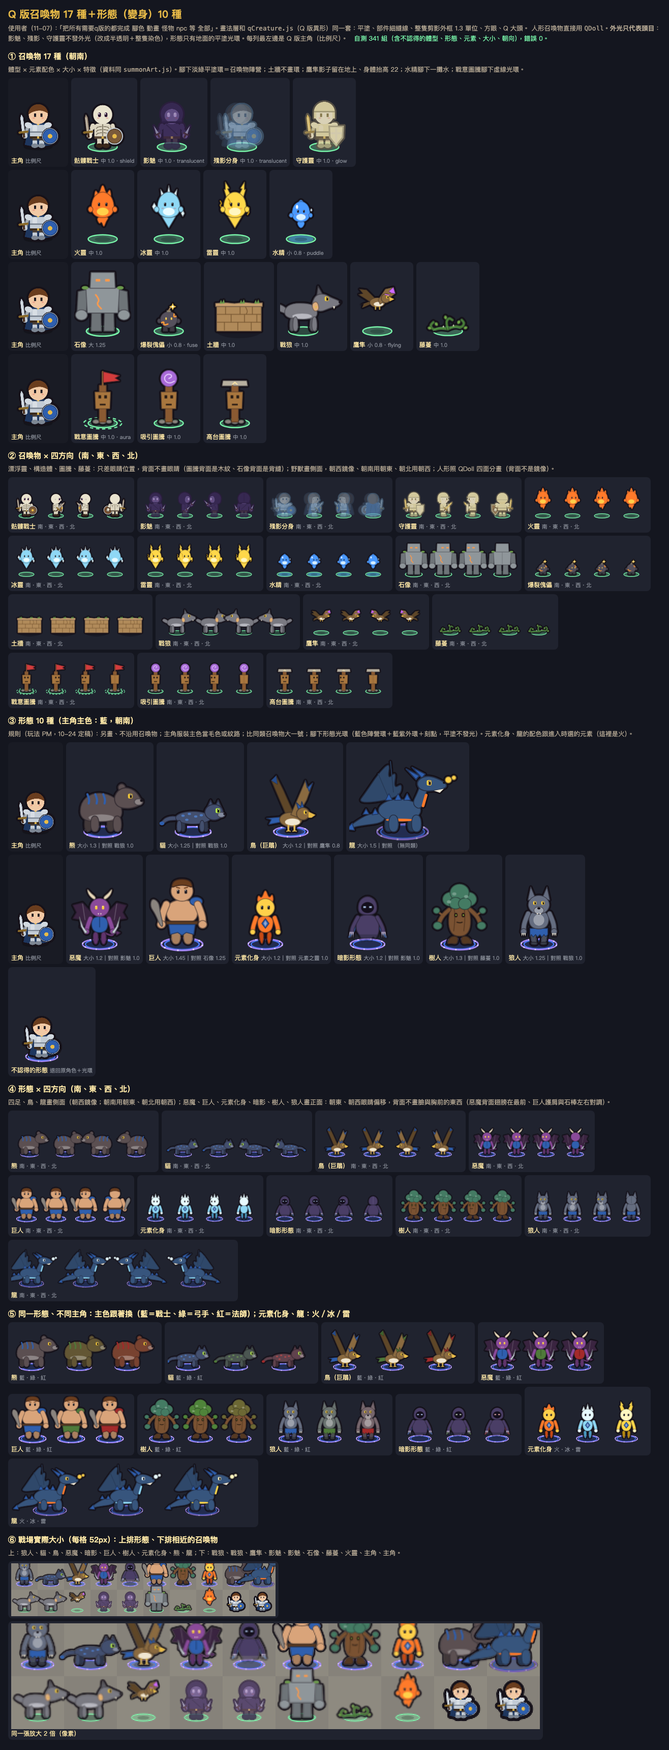
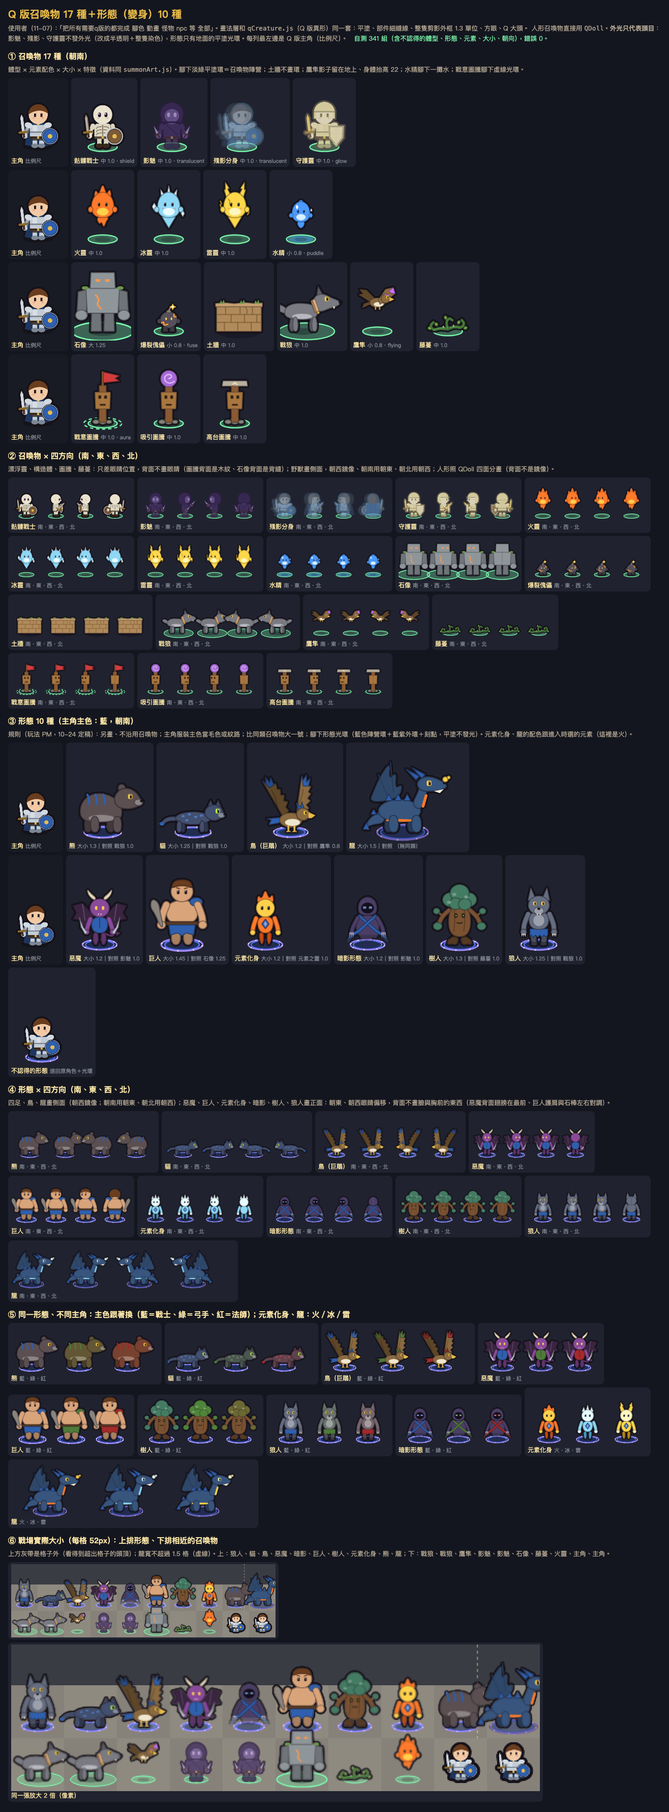
docs(art): Q summons/forms/extra gear review round 3 fixes

diff --git a/docs/art/sample/qGearExtra.js b/docs/art/sample/qGearExtra.js
@@ -17,10 +17,14 @@ window.QGearExtra = (() => {
   const fill = (g, c, path) => { g.beginPath(); g.fillStyle = c; path(); g.fill(); };
   const rr = (g, x, y, w, h, r) => g.roundRect(x, y, w, h, r);
   const line = (g, c, w, pts) => { g.strokeStyle = c; g.lineWidth = w; g.lineCap = "round"; g.lineJoin = "round"; g.beginPath(); pts.forEach(([x, y], i) => (i ? g.lineTo(x, y) : g.moveTo(x, y))); g.stroke(); };
-  const noHead = (g, V) => { g.beginPath(); g.rect(-60, -90, 120, 120); g.arc(V.S ? 0.3 : 0, -29, 8.7, 0, TAU); g.clip("evenodd"); }; // 頸飾、披肩：不蓋臉
+  const noHead = (g, V) => { g.beginPath(); g.rect(-60, -90, 120, 120); g.arc(0, -29, 8.45, 0, TAU); g.clip("evenodd"); }; // 頸飾、披肩：不蓋臉（圓＝QDoll 的頭，r 8.5 往內一點，不留縫）
 
   // ============================== 合成：底圖（QDoll）＋部件＋整隻外框 ==============================
-  const KEY_BODY = "#00fe02", KEY_SKIN = "#fe02fc";
+  // 色鍵圖（審查第 3 輪改）：衣服＝綠、皮膚＝洋紅、褲子／腰帶／鞋＝青、披風＝橘；其他顏色（武器、盾、頭髮、背掛…）＝擋在前面的東西。
+  //   軀幹＝從軀幹種子沿「亮綠」填色（袖子的描邊、拳頭圈是暗綠，填色會停在那裡）；側面近側手臂前方那一條軀幹另外補種子。
+  //   手＝每隻手各自一個「前臂膠囊」（拳頭往肩膀 7 單位、半徑 3）裡看得到的手臂像素，膨脹 0.6 單位給袖口外翻；扣掉軀幹、擋在前面的東西；
+  //   側面遠側手再扣掉近側手的膠囊（近側手臂在前）。背面披風在最上層，披風也算擋在前面。
+  const KEY = { body: "#00fe02", skin: "#fe02fc", leg: "#02fefe", cloak: "#fe8002" };
   const mk = (w, h) => { const c = document.createElement("canvas"); c.width = w; c.height = h; return c; };
   function dilate(src, r) { // 同 qDoll stamp：12 方向線段膨脹（近似圓盤），尖端不會變梳齒
     const w = src.width, h = src.height, N = 12, a = (r * Math.PI) / (2 * N), P = [mk(w, h), mk(w, h)]; let cur = src, n = 0;
@@ -28,24 +32,42 @@ window.QGearExtra = (() => {
     const o = mk(w, h); o.getContext("2d").drawImage(cur, 0, 0); return o;
   }
   const tint = (src, col) => { const c = mk(src.width, src.height), g = c.getContext("2d"); g.drawImage(src, 0, 0); g.globalCompositeOperation = "source-in"; g.fillStyle = col; g.fillRect(0, 0, c.width, c.height); return c; };
-  /** 色鍵圖 → 看得到的軀幹（填色）＋手臂與拳頭（其餘鍵色＋皮膚，膨脹一點蓋住袖子的描邊）。 */
-  function masks(unit, view, west, s, ox, oy, W, H) {
-    const look = { ...unit.look, skin: KEY_SKIN }, gear = { ...unit.gear, hands: undefined, body: { ...(unit.gear.body ?? { kind: "shirt" }), kind: ["mail", "plate", "leather"].includes(unit.gear.body?.kind) ? "shirt" : unit.gear.body?.kind ?? "shirt", color: KEY_BODY, element: undefined, crest: undefined } };
+  const toCanvas = (arr, W, H) => { const c = mk(W, H), g = c.getContext("2d"), im = g.createImageData(W, H); for (let i = 0; i < W * H; i++) if (arr[i]) im.data[i * 4 + 3] = 255; g.putImageData(im, 0, 0); return c; };
+  const alphaOf = (c) => { const d = c.getContext("2d").getImageData(0, 0, c.width, c.height).data, a = new Uint8Array(c.width * c.height); for (let i = 0; i < a.length; i++) a[i] = d[i * 4 + 3] > 127 ? 1 : 0; return a; };
+  function flood(ok, seeds, W, H, out) { const st = []; for (const i of seeds) if (i >= 0 && ok(i) && !out[i]) { out[i] = 1; st.push(i); } while (st.length) { const i = st.pop(), x = i % W; for (const j of [x > 0 ? i - 1 : -1, x < W - 1 ? i + 1 : -1, i - W, i + W]) { if (j < 0 || j >= W * H || out[j] || !ok(j)) continue; out[j] = 1; st.push(j); } } return out; }
+  function masks(unit, view, west, s, ox, oy, W, H, hands) {
+    const kc = (it, col) => (it ? { ...it, color: col, element: undefined } : it);
+    const look = { ...unit.look, skin: KEY.skin, pants: KEY.leg, belt: KEY.leg };
+    const gear = { ...unit.gear, hands: undefined, feet: kc(unit.gear.feet, KEY.leg), cloak: kc(unit.gear.cloak, KEY.cloak), body: { ...(unit.gear.body ?? { kind: "shirt" }), kind: ["mail", "plate", "leather"].includes(unit.gear.body?.kind) ? "shirt" : unit.gear.body?.kind ?? "shirt", color: KEY.body, element: undefined, crest: undefined } };
     const c = mk(W, H), g = c.getContext("2d"); Q.stamp(g, { look, gear }, view, ox, oy, s, west, { outline: false, dpr: 1.5 });
-    const d = g.getImageData(0, 0, W, H).data, isK = (i, k) => d[i * 4 + 3] > 250 && Math.abs(d[i * 4] - k[0]) < 10 && Math.abs(d[i * 4 + 1] - k[1]) < 10 && Math.abs(d[i * 4 + 2] - k[2]) < 10;
-    const KB = hex(KEY_BODY), KS = hex(KEY_SKIN), torso = new Uint8Array(W * H);
-    const px = (u, v) => [Math.round(ox + s * (west ? -u : u)), Math.round(oy + s * v)];
-    // 種子：軀幹靠背那一側（側面近側手臂垂在胸前，避開）
-    let seed = -1; for (const [u, v] of view === "side" ? [[-3.6, -15], [-3, -18], [-4, -12]] : [[0, -15], [0, -18], [-2, -12], [2, -12]]) { const [x, y] = px(u, v), i = y * W + x; if (isK(i, KB)) { seed = i; break; } }
-    if (seed >= 0) { const st = [seed]; torso[seed] = 1; while (st.length) { const i = st.pop(), x = i % W; for (const j of [i - 1, i + 1, i - W, i + W]) { if (j < 0 || j >= W * H || torso[j] || (Math.abs((j % W) - x) > 1) || !isK(j, KB)) continue; torso[j] = 1; st.push(j); } } }
-    const tc = mk(W, H), ac = mk(W, H), ti = tc.getContext("2d").createImageData(W, H), ai = ac.getContext("2d").createImageData(W, H), yHand = oy + s * -16;
-    for (let i = 0; i < W * H; i++) {
-      if (torso[i]) ti.data[i * 4 + 3] = 255;
-      else if (isK(i, KB) || (isK(i, KS) && Math.floor(i / W) > yHand)) ai.data[i * 4 + 3] = 255;
-    }
-    tc.getContext("2d").putImageData(ti, 0, 0); ac.getContext("2d").putImageData(ai, 0, 0);
-    const arms = dilate(ac, 0.75 * s), tg = tc.getContext("2d"); tg.globalCompositeOperation = "destination-out"; tg.drawImage(arms, 0, 0);
-    return { torso: tc, arms };
+    const d = g.getImageData(0, 0, W, H).data, N = W * H, cls = new Uint8Array(N), bright = new Uint8Array(N);
+    for (let i = 0; i < N; i++) { const r = d[i * 4], gg = d[i * 4 + 1], b = d[i * 4 + 2], a = d[i * 4 + 3]; if (a < 128) continue;
+      if (gg > 50 && gg > 1.6 * Math.max(r, b)) { cls[i] = 1; bright[i] = gg > 200 && r < 70 && b < 70 ? 1 : 0; }        // 衣服（含暗綠描邊）
+      else if (r > 120 && b > 120 && gg < 0.6 * Math.min(r, b)) cls[i] = 2;                                                  // 皮膚
+      else if (gg > 120 && b > 120 && r < 0.5 * Math.min(gg, b)) cls[i] = 3;                                                 // 褲子、腰帶、鞋
+      else if (r > 200 && gg > 90 && gg < 160 && b < 60) cls[i] = 4;                                                         // 披風
+      else cls[i] = 5; }                                                                                                       // 擋在前面的東西
+    const U = (i) => [((i % W) - ox) / s * (west ? -1 : 1), (Math.floor(i / W) - oy) / s], P = (u, v) => Math.round(oy + s * v) * W + Math.round(ox + s * (west ? -u : u));
+    const S = view === "side", yHand = oy + s * -16;
+    // 近側手臂（側面）：從前臂中段沿亮綠填色，袖子描邊圈住
+    const nearArm = new Uint8Array(N); if (S) { const nh = hands.find((h) => h.near); if (nh) { const m = [(nh.at[0] + nh.sh[0]) / 2, (nh.at[1] + nh.sh[1]) / 2]; flood((i) => bright[i], [P(m[0], m[1]), P(m[0], m[1] + 1.5)], W, H, nearArm); } } // 種子在前臂中段：只走亮綠（拳頭貼在軀幹上，從拳頭走會漏進軀幹）
+    const torso = new Uint8Array(N), seeds = (S ? [[-3.6, -15], [-3, -18], [-4, -12]] : [[0, -15], [0, -18], [-2, -12], [2, -12]]).map(([u, v]) => P(u, v));
+    if (S) for (const [u, v] of [[5, -17], [5, -12.5], [4.9, -14.6], [5.1, -19]]) { const i = P(u, v); if (!nearArm[i]) seeds.push(i); } // 側面：近側手臂前方那一條軀幹
+    flood((i) => bright[i] && !nearArm[i], seeds, W, H, torso);
+    const arm = new Uint8Array(N), occ = new Uint8Array(N);
+    for (let i = 0; i < N; i++) { if (!torso[i] && (cls[i] === 1 || (cls[i] === 2 && Math.floor(i / W) > yHand))) arm[i] = 1; if (cls[i] === 5 || (cls[i] === 4 && view === "back")) occ[i] = 1; }
+    const armsC = dilate(toCanvas(arm, W, H), 0.75 * s), occC = toCanvas(occ, W, H), torsoC = toCanvas(torso, W, H);
+    const tg = torsoC.getContext("2d"); tg.globalCompositeOperation = "destination-out"; tg.drawImage(armsC, 0, 0); tg.drawImage(occC, 0, 0);
+    // 每隻手的範圍
+    const cap = (h, i, R = 3) => { const [u, v] = U(i), [ax, ay] = h.at, L = Math.hypot(h.sh[0] - ax, h.sh[1] - ay) || 1, dx = (h.sh[0] - ax) / L, dy = (h.sh[1] - ay) / L, t = Math.max(0, Math.min(7, (u - ax) * dx + (v - ay) * dy)); return Math.hypot(u - ax - dx * t, v - ay - dy * t) <= R; };
+    const near = hands.find((h) => h.near);
+    const handMask = (h) => {
+      const vis = new Uint8Array(N), within = new Uint8Array(N);
+      for (let i = 0; i < N; i++) { if (!cap(h, i, 3.2)) continue; if (S && !h.near && near && cap(near, i, 3.2)) continue; within[i] = 1; if (arm[i]) vis[i] = 1; }
+      const m = dilate(toCanvas(vis, W, H), 0.6 * s), mg = m.getContext("2d"); mg.globalCompositeOperation = "destination-in"; mg.drawImage(toCanvas(within, W, H), 0, 0);
+      mg.globalCompositeOperation = "destination-out"; mg.drawImage(torsoC, 0, 0); mg.drawImage(occC, 0, 0); return m;
+    };
+    return { torso: torsoC, arms: armsC, occ: occC, handMask };
   }
   /**
    * 畫一隻穿上額外部件的 Q 版小人。unit＝QDoll 的 { look, gear }；ids＝這裡的部件 id（可多個）。其他參數同 QDoll.stamp。
@@ -62,23 +84,28 @@ window.QGearExtra = (() => {
     const toU = ([x, y]) => [(x / (s * 1.5) - 64) * (west ? -1 : 1), y / (s * 1.5) - 98]; // POSE.hands 是 stamp 離屏畫布（s×dpr）的座標
     const HU = {};
     for (const k of ["main", "off"]) if (hands[k]) HU[k] = toU(hands[k]);
-    // 沒記到的手（空手正背面）：照 E 手臂（肩 ±8.5、往外 0.325、長 10.5）算
+    // 沒記到的手（空手）：照 E 手臂（肩 ±8.5、往外 0.325、長 10.5）算；側面遠側手垂在近側手後面一點
     const fk = (sx, a) => [sx + Math.sin(a) * 10.5 * Math.sign(sx), -20 + Math.cos(a) * 10.5];
     if (!S) { HU.main ??= fk(F ? -8.5 : 8.5, 0.325); HU.off ??= fk(F ? 8.5 : -8.5, 0.325); }
-    else { HU.main ??= [2.9, -9.6]; HU.off ??= [1.8, -9.6]; }
-    const shoulder = (h) => (S ? [2, -20] : [h[0] < 0 ? -8.5 : 8.5, -20]);
-    const handList = S ? [west ? "off" : "main"] : ["main", "off"];
-    const V = { view, S, B, F, west, unit, hands: handList.map((k) => ({ who: k, at: HU[k], sh: shoulder(HU[k]) })) };
-    const needMask = defs.some((d) => d.torso || d.free);
-    const M = needMask ? masks(unit, view, west, s, ox, oy, W, H) : null;
+    else { const nk = west ? "off" : "main", fk2 = west ? "main" : "off"; HU[nk] ??= [2.9, -9.6]; HU[fk2] ??= [1.4, -9.8]; }
+    const nearKey = west ? "off" : "main";
+    const shoulder = (h, near) => (S ? [near ? 2 : 3, -20] : [h[0] < 0 ? -8.5 : 8.5, -20]);
+    const handList = S ? [west ? "main" : "off", nearKey] : ["main", "off"]; // 側面：遠側先畫
+    const V = { view, S, B, F, west, unit, hands: handList.map((k) => ({ who: k, near: S && k === nearKey, at: HU[k], sh: shoulder(HU[k], S && k === nearKey) })) };
+    const needMask = defs.some((d) => d.torso || d.free || d.hand);
+    const M = needMask ? masks(unit, view, west, s, ox, oy, W, H, V.hands) : null;
     const layer = (fn, clip) => {
       const L = mk(W, H), g = L.getContext("2d"); g.setTransform(west ? -s : s, 0, 0, s, ox, oy); fn(g, V); g.setTransform(1, 0, 0, 1, 0, 0);
       if (clip === "torso") { g.globalCompositeOperation = "destination-in"; g.drawImage(M.torso, 0, 0); }
-      else if (clip === "free") { g.globalCompositeOperation = "destination-out"; g.drawImage(M.arms, 0, 0); }
+      else if (clip === "free") { g.globalCompositeOperation = "destination-out"; g.drawImage(M.arms, 0, 0); g.drawImage(M.occ, 0, 0); }
+      else if (clip && clip.mask) { g.globalCompositeOperation = "destination-in"; g.drawImage(clip.mask, 0, 0); }
       ag.drawImage(L, 0, 0);
     };
     for (const d of defs) if (d.erase) { ag.save(); ag.setTransform(west ? -s : s, 0, 0, s, ox, oy); ag.globalCompositeOperation = "destination-out"; ag.beginPath(); d.erase(ag, V); ag.fill(); ag.restore(); } // 擦掉底圖伸出去、新部件用不到的部分（例：毛帽側面的帽舌）
-    for (const d of defs) { if (d.torso) layer(d.torso, "torso"); if (d.free) layer(d.free, "free"); if (d.top) layer(d.top, null); if (d.hand) layer((g) => V.hands.forEach((h) => { g.save(); const a = Math.atan2(h.at[1] - h.sh[1], h.at[0] - h.sh[0]) - Math.PI / 2; g.translate(h.at[0], h.at[1]); g.rotate(a); d.hand(g, V, h); g.restore(); }), null); }
+    for (const d of defs) {
+      if (d.torso) layer(d.torso, "torso"); if (d.free) layer(d.free, "free"); if (d.top) layer(d.top, null);
+      if (d.hand) for (const h of V.hands) layer((g) => { g.save(); const a = Math.atan2(h.at[1] - h.sh[1], h.at[0] - h.sh[0]) - Math.PI / 2; g.translate(h.at[0], h.at[1]); g.rotate(a); d.hand(g, V, h); g.restore(); }, { mask: M.handMask(h) }); // 手：只畫在看得到的那隻手臂上（武器、盾、背面披風在上面）
+    }
     const rim = tint(dilate(A, 1.3 * s), OUT);
     const dx = cx - 64 * size, dy = cy - 98 * size;
     ctx.save(); ctx.imageSmoothingEnabled = true; ctx.drawImage(rim, dx, dy, W / SS, H / SS); ctx.drawImage(A, dx, dy, W / SS, H / SS); ctx.restore();
@@ -92,14 +119,16 @@ window.QGearExtra = (() => {
   const DEFS = {
     // ---------- 身體 ----------
     scale_mail: { zh: "鱗甲", slot: "身體", from: "mail・scale", base: setG("body", { slot: "body", kind: "mail", material: "iron" }),
-      note: "鎖甲的點換成一排排魚鱗（U 形線），正面、背面、側面同一個紋；鱗片停在腰帶上",
+      note: "鎖甲的點換成一排排魚鱗（U 形線），正面、背面、側面同一個紋；鱗片停在腰帶上方（最下排不碰腰帶）；側面近側手臂前方那一條軀幹也換成鱗片",
       torso(g, V) { const [c, d] = colors(V.unit.gear.body), [x0, x1] = torsoBox(V); fill(g, c, () => g.rect(x0, -22, x1 - x0, 13));
-        let row = 0; for (let y = -19.6; y < -9.5; y += 2.3, row++) for (let x = x0 + (row % 2 ? 1.2 : 0); x <= x1 + 1; x += 2.4) { g.strokeStyle = d; g.lineWidth = 0.55; g.beginPath(); g.arc(x, y, 1.15, 0.15 * Math.PI, 0.85 * Math.PI); g.stroke(); } } },
+        let row = 0; for (let y = -19.6; y < -11.2; y += 2.3, row++) for (let x = x0 + (row % 2 ? 1.2 : 0); x <= x1 + 1; x += 2.4) { g.strokeStyle = d; g.lineWidth = 0.55; g.beginPath(); g.arc(x, y, 1.15, 0.15 * Math.PI, 0.85 * Math.PI); g.stroke(); } } },
     hunter: { zh: "獵裝", slot: "身體", from: "leather・hunter", base: setG("body", { slot: "body", kind: "leather", color: "#6a5a3a" }),
-      note: "皮背心加長成外套：下襬蓋過大腿（正面中間開衩、側面後開衩、背面中縫），正面兩個口袋蓋；側面口袋在前緣、背面不畫",
+      note: "皮背心加長成外套：下襬蓋過大腿（正面中間開衩、側面後開衩、背面中縫），正面兩個口袋蓋（在斜背帶下面）；側面口袋在前緣、背面不畫",
       torso(g, V) { const [, d] = colors(V.unit.gear.body);
         if (V.F) for (const x of [-4.6, 1.4]) { fill(g, d, () => rr(g, x, -14.2, 3.2, 1.6, 0.5)); fill(g, GOLD, () => g.arc(x + 1.6, -13.4, 0.45, 0, TAU)); }
-        else if (V.S) fill(g, d, () => rr(g, 2.6, -14.2, 2.8, 1.6, 0.5)); },
+        else if (V.S) fill(g, d, () => rr(g, 2.6, -14.2, 2.8, 1.6, 0.5));
+        // 斜背帶畫回口袋蓋上面（同 qDoll body() 的 leather：正面右肩到左腰；側面照朝東／朝西各自的方向）
+        if (V.F) line(g, d, 1, [[-5, -20], [5, -11]]); else if (V.S) line(g, d, 0.85, V.west ? [[1.5, -20.8], [-3.5, -11]] : [[-1.5, -20.8], [4.6, -11]]); },
       free(g, V) { const [c, d] = colors(V.unit.gear.body), w = V.S ? 5.9 : 8.2;
         fill(g, c, () => { g.moveTo(-w + 0.6, -7.6); g.lineTo(w - 0.6, -7.6); g.lineTo(w, -3.6); g.lineTo(-w, -3.6); g.closePath(); });
         if (V.F) fill(g, dark(c, 0.35), () => { g.moveTo(-0.9, -3.6); g.lineTo(0, -7.4); g.lineTo(0.9, -3.6); g.closePath(); });
@@ -115,8 +144,8 @@ window.QGearExtra = (() => {
     coat_cape: { zh: "披風外套", slot: "身體", from: "coat・cape", base: setG("body", { slot: "body", kind: "coat", color: "#4a5058" }),
       note: "旅行外套肩上多一片短披肩（蓋過肩膀與上臂），正面圓下緣、背面較長；側面從前胸繞到後背",
       top(g, V) { const [c, d] = colors(V.unit.gear.body), k = dark(c, 0.18); g.save(); noHead(g, V);
-        if (V.S) fill(g, k, () => { g.moveTo(-6.2, -21.6); g.quadraticCurveTo(0, -24, 5.6, -21.6); g.quadraticCurveTo(7, -18, 5.4, -15.6); g.quadraticCurveTo(0, -14.4, -6.6, -14.6); g.quadraticCurveTo(-7.6, -18, -6.2, -21.6); g.closePath(); });
-        else fill(g, k, () => { g.moveTo(-9.6, -21); g.quadraticCurveTo(0, -23.4, 9.6, -21); g.quadraticCurveTo(11.6, -17, 10.6, V.B ? -13.6 : -15.2); g.quadraticCurveTo(0, V.B ? -11.6 : -13.2, -10.6, V.B ? -13.6 : -15.2); g.quadraticCurveTo(-11.6, -17, -9.6, -21); g.closePath(); });
+        if (V.S) fill(g, k, () => { g.moveTo(-6.2, -21.4); g.quadraticCurveTo(0, -22, 5.6, -21.4); g.quadraticCurveTo(7, -18, 5.4, -15.6); g.quadraticCurveTo(0, -14.4, -6.6, -14.6); g.quadraticCurveTo(-7.6, -18, -6.2, -21.4); g.closePath(); });
+        else fill(g, k, () => { g.moveTo(-9.6, -21); g.quadraticCurveTo(0, -22.4, 9.6, -21); g.quadraticCurveTo(11.6, -17, 10.6, V.B ? -13.6 : -15.2); g.quadraticCurveTo(0, V.B ? -11.6 : -13.2, -10.6, V.B ? -13.6 : -15.2); g.quadraticCurveTo(-11.6, -17, -9.6, -21); g.closePath(); });
         line(g, d, 0.6, V.S ? [[-6, -15.6], [5, -16.4]] : [[-9.8, -16], [0, V.B ? -12.8 : -14.2], [9.8, -16]]);
         if (V.F) fill(g, GOLD, () => g.arc(0, -19.4, 0.9, 0, TAU)); else if (V.S) fill(g, GOLD, () => g.arc(5, -19.6, 0.8, 0, TAU));
         g.restore(); } },
@@ -131,23 +160,31 @@ window.QGearExtra = (() => {
     // ---------- 頭 ----------
     hood_cowl: { zh: "斗篷帽", slot: "頭", from: "hood・cowl", base: setG("head", { slot: "head", kind: "hood", color: "#5a4a6a" }),
       note: "布兜帽下面接一片披領：正面尖角垂到胸口、背面尖角到肩胛，側面前後各一角；和披風外套的圓披肩分得開",
-      top(g, V) { const it = V.unit.gear.head, [c, d] = colors(it); g.save(); noHead(g, V);
-        if (V.S) fill(g, c, () => { g.moveTo(-8.4, -22.4); g.lineTo(5.2, -22.4); g.lineTo(6.4, -16); g.lineTo(1.6, -18.6); g.lineTo(-3, -15.4); g.lineTo(-8.8, -17.6); g.closePath(); });
-        else fill(g, c, () => { g.moveTo(-9.6, -22.6); g.lineTo(9.6, -22.6); g.lineTo(10.4, -17.6); g.lineTo(0, V.B ? -12.6 : -13.8); g.lineTo(-10.4, -17.6); g.closePath(); });
+      top(g, V) { const it = V.unit.gear.head, [c, d] = colors(it); g.save(); if (!V.B) noHead(g, V); // 背面：披領蓋到兜帽下緣，不露頭髮
+        if (V.S) fill(g, c, () => { g.moveTo(-8.4, -23); g.lineTo(7.6, -23.8); g.lineTo(6.6, -16); g.lineTo(1.6, -18.6); g.lineTo(-3, -15.4); g.lineTo(-8.8, -17.6); g.closePath(); }); // 側面：前緣往上包到下巴下，不露衣領
+        else if (V.B) fill(g, c, () => { g.moveTo(-9.6, -23.2); g.lineTo(9.6, -23.2); g.lineTo(10.4, -17.6); g.lineTo(0, -12.6); g.lineTo(-10.4, -17.6); g.closePath(); });
+        else fill(g, c, () => { g.moveTo(-9.6, -23); g.quadraticCurveTo(0, -17.8, 9.6, -23); g.lineTo(10.4, -17.6); g.lineTo(0, -13.8); g.lineTo(-10.4, -17.6); g.closePath(); }); // 正面：和兜帽的接縫是順著下巴的弧線
         line(g, d, 0.6, V.S ? [[-8.6, -17.6], [-3, -15.4], [1.6, -18.6], [6.4, -16]] : [[-10.4, -17.6], [0, V.B ? -12.6 : -13.8], [10.4, -17.6]]);
         g.restore(); } },
     cap_fur: { zh: "毛帽", slot: "頭", from: "cap・fur", base: setG("head", { slot: "head", kind: "cap", color: "#6a4a2e" }),
-      note: "皮帽的帽緣換成一圈米白毛邊（下緣圓凸），兩側垂護耳；正面、背面兩片，側面一片蓋在耳朵上",
+      note: "皮帽的帽緣換成一圈米白毛邊（圓角、下緣圓凸、不凸出頭），兩側垂護耳；側面護耳是沿後腦頭形垂下的一片毛",
       erase(g, V) { if (V.S) g.rect(8.7, -34.5, 6, 4.4); }, // 側面：皮帽的帽舌伸出臉前的那段擦掉
       top(g, V) { const F = "#ece4cc", Fd = "#c8bc9c";
-        if (V.S) { fill(g, F, () => { g.moveTo(-9.6, -34); g.lineTo(8.8, -34); g.lineTo(9, -31.4); for (let i = 0; i < 5; i++) { const x = 9 - i * 3.72; g.quadraticCurveTo(x - 1.86, -29.8, x - 3.72, -31.4); } g.closePath(); });
-          fill(g, F, () => rr(g, -3.4, -31.6, 4.4, 7, 2.2)); line(g, Fd, 0.5, [[-1.2, -30.4], [-1.2, -25.6]]); return; }
-        fill(g, F, () => { g.moveTo(-10, -34.2); g.lineTo(10, -34.2); g.lineTo(10.2, -31.6); for (let i = 0; i < 5; i++) { const x = 10.2 - i * 4.08; g.quadraticCurveTo(x - 2.04, -29.8, x - 4.08, -31.6); } g.closePath(); });
-        for (const sx of [-1, 1]) fill(g, F, () => rr(g, sx * 9.2 - 2.2, -32, 4.4, 8.2, 2.2)); } },
+        // 毛邊：圓角、剪在頭＋帽頂的輪廓裡（不凸出頭）；下緣一排圓凸
+        g.save(); g.beginPath(); g.arc(0, -29, 8.5, 0, TAU); g.arc(V.S ? -0.4 : 0, -31, 9.1, Math.PI, 0); g.clip();
+        const x0 = V.S ? -9.6 : -9.2, x1 = V.S ? 8.8 : 9.2, n = 5, st = (x1 - x0) / n;
+        fill(g, F, () => { g.moveTo(x0, -32); g.quadraticCurveTo(x0, -34.4, x0 + 2, -34.4); g.lineTo(x1 - 2, -34.4); g.quadraticCurveTo(x1, -34.4, x1, -32); for (let i = 0; i < n; i++) { const x = x1 - i * st; g.quadraticCurveTo(x - st / 2, -29.6, x - st, -31.4); } g.closePath(); });
+        if (V.S) { // 側面護耳：沿後腦的頭形垂下的一片毛（蓋住耳朵），剪在頭的輪廓裡
+          fill(g, F, () => { g.moveTo(-5.2, -31.4); g.quadraticCurveTo(-6.4, -26.4, -4.2, -23.4); g.quadraticCurveTo(-1.4, -22.4, 0.4, -24.8); g.quadraticCurveTo(1.4, -28, 1, -31.4); g.closePath(); }); // 耳朵（x −1.2）上一片圓的毛，下緣往後收、順著頭形
+          line(g, Fd, 0.5, [[-2.6, -29.6], [-2.2, -24.6]]); g.restore(); return; }
+        g.restore();
+        for (const sx of [-1, 1]) { fill(g, F, () => rr(g, sx * 7.6 - 1.9, -31.6, 3.8, 7.6, 1.9)); line(g, Fd, 0.45, [[sx * 7.6, -29.8], [sx * 7.6, -25.6]]); } } },
     // ---------- 手 ----------
     gloves_fingerless: { zh: "露指手套", slot: "手", from: "cloth_gloves・fingerless", base: setG("hands", { slot: "hands", kind: "gloves", color: "#5a5a6a" }),
-      note: "手套（手背是手套色）＋露出一截膚色指頭（拳頭往指尖那一側）＋手腕一圈",
-      hand(g, V) { const sk = V.unit.look.skin, [c, d] = colors(V.unit.gear.hands); g.save(); g.beginPath(); g.arc(0, 0, 2.4, 0, TAU); g.clip(); fill(g, sk, () => g.rect(-3, 0.7, 6, 3)); line(g, dark(sk, 0.25), 0.4, [[-1.8, 0.75], [1.8, 0.75]]); g.restore(); fill(g, d, () => rr(g, -2.3, -2.9, 4.6, 1.3, 0.5)); } },
+      note: "手套（手背是手套色）＋露出一截膚色指頭（拳頭往指尖那一側）＋手腕一圈；正面、背面保留拳頭圈；側面兩隻手都畫",
+      hand(g, V) { const sk = V.unit.look.skin, [c, d] = colors(V.unit.gear.hands); g.save(); g.beginPath(); g.arc(0, 0, 2.4, 0, TAU); g.clip(); fill(g, sk, () => g.rect(-3, 0.7, 6, 3)); line(g, dark(sk, 0.25), 0.4, [[-1.8, 0.75], [1.8, 0.75]]);
+        if (!V.S) { g.beginPath(); g.rect(-3, 0.7, 6, 3); g.clip(); g.strokeStyle = mix(sk, "#000000", 0.45); g.lineWidth = 0.9; g.beginPath(); g.arc(0, 0, 1.95, 0, TAU); g.stroke(); } // 正面、背面：露出的指頭保留拳頭圈的下半（第 17 版拳頭整圈邊）
+        g.restore(); fill(g, d, () => rr(g, -2.3, -2.9, 4.6, 1.3, 0.5)); } },
     gloves_long: { zh: "長皮手套", slot: "手", from: "leather_gloves・long", base: setG("hands", { slot: "hands", kind: "gloves", material: "leather" }),
       note: "皮手套往上包到前臂一半，袖口外翻一圈淺色",
       hand(g, V) { const [c, d] = colors(V.unit.gear.hands); fill(g, c, () => rr(g, -2.2, -6.2, 4.4, 5.4, 1)); fill(g, light(c, 0.22), () => rr(g, -2.6, -6.8, 5.2, 1.6, 0.7)); line(g, d, 0.4, [[-2, -1.2], [2, -1.2]]); } },
@@ -160,36 +197,39 @@ window.QGearExtra = (() => {
       hand(g, V) { for (const y of [-5.2, -3.2]) { fill(g, COPPER, () => rr(g, -2.5, y, 5, 1.1, 0.5)); fill(g, light(COPPER, 0.5), () => g.rect(-1.6, y + 0.2, 1.2, 0.35)); } } },
     // ---------- 腳 ----------
     shoes_wrapped: { zh: "綁腿鞋", slot: "腳", from: "shoes・wrapped", base: setG("feet", { slot: "feet", kind: "shoes", material: "cloth" }),
-      note: "布鞋＋小腿纏三圈淺色布條（斜的）；側面遠側腿被近側腿擋住的部分不畫",
-      free(g, V) { const legs = V.S ? [[-1.6, true], [1.6, false]] : [[-3, false], [3, false]];
-        for (const [x, far] of legs) { g.save(); g.beginPath(); g.roundRect(x - 2.1, -5.6, 4.2, 4.6, 1.2); if (far) { g.rect(-60, -60, 120, 120); g.rect(-0.4, -6, 4, 6); g.clip("evenodd"); g.beginPath(); g.roundRect(x - 2.1, -5.6, 4.2, 4.6, 1.2); } g.clip();
-          for (const y of [-5, -3.3, -1.6]) fill(g, "#e2d8bc", () => { g.moveTo(x - 2.2, y + 0.5); g.lineTo(x + 2.2, y - 0.5); g.lineTo(x + 2.2, y + 0.4); g.lineTo(x - 2.2, y + 1.4); g.closePath(); });
+      note: "布鞋＋小腿纏三圈淺色布條（斜的）；側面兩腿的布條連成一條",
+      free(g, V) { const xs = V.S ? [-1.6, 1.6] : [-3, 3];
+        // 側面兩條腿前後重疊：布條剪在兩腿合起來的形狀裡，一條連到底；正面、背面各腿各自三圈
+        const groups = V.S ? [xs] : xs.map((x) => [x]);
+        for (const grp of groups) { g.save(); g.beginPath(); for (const x of grp) g.roundRect(x - 2.1, -5.6, 4.2, 4.6, 1.2); g.clip();
+          const a = Math.min(...grp) - 2.4, b = Math.max(...grp) + 2.4;
+          for (const y of [-5, -3.3, -1.6]) fill(g, "#e2d8bc", () => { g.moveTo(a, y + 0.6); g.lineTo(b, y - 0.6); g.lineTo(b, y + 0.4); g.lineTo(a, y + 1.6); g.closePath(); });
           g.restore(); } } },
     sabaton: { zh: "尖頭鐵靴", slot: "腳", from: "iron_boots・sabaton", base: setG("feet", { slot: "feet", kind: "iron_boots", material: "iron" }),
-      note: "鐵靴的鞋頭拉成尖角：側面往前尖出、正面往下尖（朝鏡頭）、背面看不到尖；鞋面一道分節線",
+      note: "鐵靴的鞋頭拉成尖角：側面往前尖出、正面往下尖（朝鏡頭，不低於地面線）、背面看不到尖；鞋面一道分節線",
       free(g, V) { const [c, d] = colors(V.unit.gear.feet);
         if (V.S) { fill(g, c, () => { g.moveTo(2, -3); g.lineTo(5.4, -2.4); g.lineTo(8.6, -0.6); g.lineTo(5.6, 0.6); g.lineTo(1.8, 0.6); g.closePath(); }); line(g, d, 0.5, [[3.4, -2.6], [4, 0.4]]); return; }
-        for (const sx of [-1, 1]) { const x = sx * 3; if (V.F) fill(g, c, () => { g.moveTo(x - 3.4, -1.6); g.lineTo(x + 3.4, -1.6); g.lineTo(x + 2, 0.4); g.lineTo(x, 2); g.lineTo(x - 2, 0.4); g.closePath(); }); line(g, d, 0.5, [[x - 3, -1.8], [x + 3, -1.8]]); } } },
+        for (const sx of [-1, 1]) { const x = sx * 3; if (V.F) fill(g, c, () => { g.moveTo(x - 3.4, -1.6); g.lineTo(x + 3.4, -1.6); g.lineTo(x + 2.2, -0.3); g.lineTo(x, 0.8); g.lineTo(x - 2.2, -0.3); g.closePath(); }); line(g, d, 0.5, [[x - 3, -1.8], [x + 3, -1.8]]); } } },
     greaves_knee: { zh: "護膝脛甲", slot: "腳", from: "greaves・knee", base: setG("feet", { slot: "feet", kind: "greaves", material: "steel" }),
       note: "脛甲＋膝蓋一片圓護膝（亮一階、中間一道稜）：正面兩片、側面近側一片往前凸、背面不畫",
       free(g, V) { if (V.B) return; const [c, d] = colors(V.unit.gear.feet), k = light(c, 0.2);
         for (const x of V.S ? [2.2] : [-3, 3]) { fill(g, k, () => g.ellipse(x, -5.4, V.S ? 2.4 : 2.6, 2, 0, 0, TAU)); line(g, d, 0.45, V.S ? [[x + 0.4, -6.8], [x + 1.4, -4.2]] : [[x, -7], [x, -3.8]]); } } },
     // ---------- 頸 ----------
     pendant_tag: { zh: "吊牌", slot: "頸", from: "pendant・tag", base: (u) => u,
-      note: "細鏈＋一塊圓角鐵牌（有穿孔）；側面牌子在胸前前緣；背面鏈子被後腦擋住（同 qDoll 項鍊）；側面近側手臂蓋在鏈子上",
-      free(g, V) { g.save(); noHead(g, V); if (V.B) { line(g, "#8d969f", 0.6, [[-3.5, -20.8], [0, -20.2], [3.5, -20.8]]); g.restore(); return; }
-        if (V.S) { line(g, "#8d969f", 0.55, [[-1.5, -20.8], [3.4, -18.4], [5.3, -18.2]]); fill(g, STEEL, () => rr(g, 4.4, -18.4, 1.8, 3, 0.5)); g.restore(); return; }
+      note: "細鏈＋一塊圓角鐵牌（有穿孔）；側面照「只在正面的部件轉到前緣」：牌子掛在胸前前緣、露在手臂前方；背面鏈子被後腦擋住（同 qDoll 項鍊）",
+      top(g, V) { g.save(); noHead(g, V); if (V.B) { line(g, "#8d969f", 0.6, [[-3.5, -20.8], [0, -20.2], [3.5, -20.8]]); g.restore(); return; }
+        if (V.S) { line(g, "#8d969f", 0.55, [[3.4, -21], [5.8, -19.6], [6.6, -18.4]]); fill(g, STEEL, () => rr(g, 5.6, -18.6, 2.2, 3.4, 0.6)); fill(g, "#6a7078", () => g.arc(6.7, -17.8, 0.35, 0, TAU)); g.restore(); return; }
         line(g, "#8d969f", 0.55, [[-4.2, -20.8], [0, -16.4], [4.2, -20.8]]); fill(g, STEEL, () => rr(g, -1.3, -16.6, 2.6, 3.6, 0.7)); fill(g, "#6a7078", () => g.arc(0, -15.8, 0.4, 0, TAU)); g.restore(); } },
     charm_tablet: { zh: "符牌", slot: "頸", from: "charm・tablet", base: (u) => u,
-      note: "皮繩＋一塊金色方牌、上面一道紅色符紋（不寫字）；側面在前緣、背面被後腦擋住",
-      free(g, V) { g.save(); noHead(g, V); if (V.B) { line(g, CORD, 0.7, [[-3.5, -20.8], [0, -20.2], [3.5, -20.8]]); g.restore(); return; }
-        if (V.S) { line(g, CORD, 0.6, [[-1.5, -20.8], [3.4, -18.4], [5.3, -18.2]]); fill(g, GOLD, () => rr(g, 4.2, -18.6, 2.2, 3.6, 0.4)); line(g, "#c0392b", 0.45, [[5.3, -17.8], [5.3, -15.6]]); g.restore(); return; }
+      note: "皮繩＋一塊金色方牌、上面一道紅色符紋（不寫字）；側面掛在胸前前緣、露在手臂前方；背面被後腦擋住",
+      top(g, V) { g.save(); noHead(g, V); if (V.B) { line(g, CORD, 0.7, [[-3.5, -20.8], [0, -20.2], [3.5, -20.8]]); g.restore(); return; }
+        if (V.S) { line(g, CORD, 0.6, [[3.4, -21], [5.8, -19.6], [6.6, -18.6]]); fill(g, GOLD, () => rr(g, 5.4, -18.8, 2.6, 4, 0.5)); line(g, "#c0392b", 0.5, [[6.7, -18], [6.7, -15.6]]); g.restore(); return; }
         line(g, CORD, 0.6, [[-4.2, -20.8], [0, -16.6], [4.2, -20.8]]); fill(g, GOLD, () => rr(g, -2, -16.8, 4, 4.4, 0.6)); line(g, "#c0392b", 0.5, [[0, -16], [-0.9, -14.6], [0.9, -14.2], [0, -13.1]]); g.restore(); } },
     charm_bone: { zh: "骨符", slot: "頸", from: "charm・bone", base: (u) => u,
-      note: "皮繩＋一根彎牙（骨白）＋兩顆木珠；側面牙尖朝下在前緣、背面被後腦擋住",
-      free(g, V) { g.save(); noHead(g, V); if (V.B) { line(g, CORD, 0.7, [[-3.5, -20.8], [0, -20.2], [3.5, -20.8]]); g.restore(); return; }
+      note: "皮繩＋一根彎牙（骨白）＋兩顆木珠；側面牙尖朝下掛在胸前前緣、露在手臂前方；背面被後腦擋住",
+      top(g, V) { g.save(); noHead(g, V); if (V.B) { line(g, CORD, 0.7, [[-3.5, -20.8], [0, -20.2], [3.5, -20.8]]); g.restore(); return; }
         const fang = (x, y) => fill(g, BONE, () => { g.moveTo(x - 1.2, y); g.quadraticCurveTo(x - 0.8, y + 3, x + 0.9, y + 4.4); g.quadraticCurveTo(x + 0.3, y + 2.4, x + 1.2, y); g.closePath(); });
-        if (V.S) { line(g, CORD, 0.6, [[-1.5, -20.8], [3.4, -18.4], [5.3, -18.2]]); fang(5.2, -18.4); g.restore(); return; }
+        if (V.S) { line(g, CORD, 0.6, [[3.4, -21], [5.8, -19.6], [6.6, -18.6]]); fill(g, "#8a5a32", () => g.arc(6.6, -18.6, 0.75, 0, TAU)); fang(6.8, -18.2); g.restore(); return; }
         line(g, CORD, 0.6, [[-4.2, -20.8], [0, -16.8], [4.2, -20.8]]); fang(0, -17); for (const x of [-2, 2]) fill(g, "#8a5a32", () => g.arc(x, -17.9, 0.75, 0, TAU)); g.restore(); } },
     // ---------- 召喚物用（不在裝備清單）：骷髏的肋骨 ----------
     ribs: { zh: "肋骨", slot: "（召喚物）", from: "body・ribs", base: (u) => u, note: "骷髏戰士：骨色上衣上畫脊椎與三對肋骨；背面脊椎＋肩胛；側面兩根肋骨在背側",

diff --git a/docs/art/sample/qForm.js b/docs/art/sample/qForm.js
@@ -46,13 +46,16 @@ window.QForm = (() => {
   function bird(g, P) {
     const c = "#8a6a40", d = "#5e4628";
     g.save(); g.translate(0, -10);
-    ink(g, [[-4, -4], [-10, -18], [-16, -32], [-11, -29], [-12, -36], [-6, -24], [2, -6]], d, { sharp: true }); // 遠側翅：往上舉（V 字的後半）
-    ink(g, [[-16, -32], [-11, -29], [-12, -36]], dark(P.hero, 0.2), { sharp: true, line: false });
+    // 翅膀（審查第 3 輪：加羽緣，不像槳）：後緣一排飛羽的尖，翼尖三根長羽（主色），中間一道覆羽線
+    const wing = (sg, col, tip) => { const W = [[0, -4], [-3, -16], [-6, -28], [-8, -36], [-5.4, -33], [-4.6, -38], [-2.4, -32.4], [-0.6, -36.6], [0.4, -30], [2.4, -30.6], [2, -25.4], [4.6, -25], [3.4, -20.4], [6.4, -19.4], [4.4, -15], [7.6, -13.4], [4.6, -9.4], [6.4, -6.4], [2.6, -3]];
+      const T = (p) => [p[0] * sg, p[1]]; ink(g, W.map(T), col, { sharp: true });
+      ink(g, [[-8, -36], [-5.4, -33], [-4.6, -38], [-2.4, -32.4], [-0.6, -36.6], [0.4, -30], [-3.6, -28.4]].map(T), tip, { sharp: true });
+      stroke(g, [[-1.6, -10], [-1.2, -18], [-2.6, -26]].map(T), 0.6, dark(col, 0.3)); };
+    g.save(); g.translate(-6, 0); g.rotate(-0.28); wing(1, d, dark(P.hero, 0.2)); g.restore(); // 遠側翅：往後上舉（V 字的後半）
     ink(g, [[-8, 2], [-18, 4], [-16, 0], [-20, -1], [-9, -2]], P.hero, { sharp: true }); // 尾羽（主色）
     ink(g, ellPts(0, 0, 9.4, 6, 16), c);
     ink(g, ellPts(1.4, 2, 6.4, 3, 12), "#f0e6d0", { line: false });
-    ink(g, [[0, -4], [6, -18], [12, -32], [13.4, -26], [18, -30], [13, -16], [5, -2]], c, { sharp: true }); // 近側翅：往上往前舉
-    ink(g, [[12, -32], [13.4, -26], [18, -30], [15, -23]], P.hero, { sharp: true });
+    g.save(); g.translate(3, 0); g.rotate(0.38); wing(1, c, P.hero); g.restore(); // 近側翅：往前上舉
     HEAD(g, 7, -1, 1.25, () => {
       ink(g, [[6.4, -7], [5, -11.4], [8, -8.6], [8.6, -12], [10, -8]], P.hero, { sharp: true }); // 頭冠（主色）
       ink(g, ellPts(9.4, -4, 4.4, 4.2, 12), c);
@@ -65,11 +68,11 @@ window.QForm = (() => {
   function dragon(g, P) {
     const c = mix("#3a5068", P.hero, 0.3), d = dark(c, 0.3), E = P.el, fin = P.hero;
     for (const x of [-9, 6]) ink(g, [[x - 2.6, -10], [x + 2.6, -10], [x + 3, 0], [x - 3, 0]], d); // 遠側腳
-    ink(g, [[-30, -18], [-24, -26], [-16, -38], [-8, -46], [-10, -34], [-4, -40], [-6, -28], [0, -32], [-2, -22]], dark(c, 0.15)); // 翅膀（往上張，在身後）
+    ink(g, [[-22, -19], [-19, -27], [-14, -38], [-8, -46], [-9, -34], [-4, -40], [-5, -28], [0, -32], [-2, -22]], dark(c, 0.15)); // 翅膀（往上張，在身後；審查第 3 輪：收窄，龍寬不超過 1.5 格）
     stroke(g, [[-16, -38], [-10, -24]], 0.6, d); stroke(g, [[-8, -46], [-6, -26]], 0.6, d);
-    ink(g, [[-12, -12], [-22, -12], [-32, -6], [-36, -2], [-28, -4], [-12, -6]], c); // 尾巴
-    ink(g, [[-37, -1.6], [-33, -5.6], [-31.6, -1]], fin, { sharp: true }); // 尾尖（主色）
-    for (const x of [-24, -18]) ink(g, [[x - 2, -11.4 + (x + 24) * 0.05], [x, -15], [x + 2, -11.6]], fin, { sharp: true });
+    ink(g, [[-12, -12], [-18, -12], [-22.6, -8], [-24.4, -3], [-20, -5], [-12, -6]], c); // 尾巴（往上捲、收短）
+    ink(g, [[-26, -2], [-23.4, -6.6], [-22, -1.6]], fin, { sharp: true }); // 尾尖（主色）
+    for (const x of [-19, -15]) ink(g, [[x - 1.8, -11.6], [x, -15], [x + 1.8, -11.8]], fin, { sharp: true });
     ink(g, ellPts(-2, -14, 14, 7.4, 20), c);
     ink(g, [[-12, -8.6], [8, -8.6], [6, -6.8], [-10, -6.8]], E.c, { line: false }); // 腹甲（元素色）
     for (const x of [-9, -3, 3]) ink(g, [[x - 2.2, -20.6], [x, -25], [x + 2.2, -20.8]], fin, { sharp: true }); // 背鰭（主色）
@@ -82,7 +85,7 @@ window.QForm = (() => {
       dot(g, 24.2, -31.6, 0.7, 0.5, OUT); beye(g, 16.6, -31.6, E.l, 0.85);
       ink(g, [[19, -27.6], [24, -28.6], [22, -26.6]], "#f4ecd8", { sharp: true, line: false });
     });
-    for (const [x, y, r] of [[30, -34, 2.2], [33.6, -35.4, 1.5]]) ink(g, ellPts(x, y, r, r, 10), E.l); // 吐息（元素色，平塗，不發光）
+    for (const [x, y, r] of [[28, -34.6, 1.8], [30.2, -35.8, 1.1]]) ink(g, ellPts(x, y, r, r, 10), E.l); // 吐息（元素色，平塗，不發光）
   }
 
   // ============================== 正面（人形） ==============================
@@ -91,13 +94,14 @@ window.QForm = (() => {
     const sk = "#8a4a9a", d = dark(sk, 0.3), wing = "#3a2440", B = f.ex === null;
     const wings = () => { for (const sg of [-1, 1]) { ink(g, [[sg * 5, -24], [sg * 14, -34], [sg * 22, -32], [sg * 19, -26], [sg * 22, -21], [sg * 15, -20], [sg * 16, -14], [sg * 7, -17]], wing, { sharp: true }); stroke(g, [[sg * 14, -33], [sg * 12, -20]], 0.6, light(wing, 0.25)); } };
     if (!B) wings();
-    stroke(g, [[3, -10], [10, -6], [12, -10], [14.6, -9]], 1.4, d); ink(g, [[13.6, -11], [17, -9.4], [13.8, -7.4]], d, { sharp: true }); // 尾巴
+    const tail = () => { stroke(g, [[3, -10], [10, -6], [12, -10], [14.6, -9]], 1.4, d); ink(g, [[13.6, -11], [17, -9.4], [13.8, -7.4]], d, { sharp: true }); };
+    if (!B) tail(); // 尾巴：正面在身後
     for (const sg of [-1, 1]) ink(g, [[sg * 1, -10], [sg * 5.6, -10], [sg * 5, 0], [sg * 1.4, 0]], d);
     ink(g, [[-7, -22.6], [7, -22.6], [6.2, -9.6], [-6.2, -9.6]], P.hero); // 上衣（主色）
     if (!B) stroke(g, [[0, -22], [0, -14]], 0.6, dark(P.hero, 0.4));
     for (const sg of [-1, 1]) { limb(g, [[sg * 7.6, -21], [sg * 10, -15], [sg * 10.6, -11]], 3, sk); ink(g, ellPts(sg * 10.6, -10.4, 2.2, 2.2, 10), sk);
       g.save(); g.translate(sg * 10.6, -10.4); g.scale(sg, 1); ink(g, [[-0.6, 0.6], [3, -4], [6, -12], [4.6, -4], [1.4, 1.6]], "#c8d0d8", { sharp: true }); g.restore(); } // 兩把彎刃
-    if (B) wings();
+    if (B) { wings(); tail(); } // 背面：翅膀、尾巴在最前
     for (const sg of [-1, 1]) ink(g, [[sg * 4, -36], [sg * 9, -40], [sg * 10.6, -46], [sg * 7, -41.6], [sg * 3, -38.6]], "#e8d8b8"); // 彎角
     ink(g, ellPts(0, -30, 8, 7.6, 18), sk);
     eyes(g, f, -30, 2.8, "#ffd23a", 1);
@@ -113,7 +117,8 @@ window.QForm = (() => {
     for (const sg of [-1, 1]) { limb(g, [[sg * 10.6, -27], [sg * 13.6, -20], [sg * 14, -15]], 4.2, sk); ink(g, ellPts(sg * 14, -13.4, 3, 2.8, 10), sk); }
     g.save(); g.translate(B ? 14 : -14, -13.4); g.rotate(B ? 0.35 : -0.35); ink(g, [[-1, 1.4], [-1.4, -8], [-3, -14], [0, -19], [3.6, -15], [2, -8], [1, 1.4]], "#8a847e"); g.restore(); // 石棒（右手：正面在畫面左）
     ink(g, ellPts(0, -36, 7.6, 7, 16), sk); // 頭（身體大，頭相對小一點）
-    ink(g, [[-7.4, -38], [-6, -43], [0, -44.4], [6, -43], [7.4, -38], [3, -40], [-3, -40]], "#6a3d1e");
+    if (B) { g.save(); g.beginPath(); g.ellipse(0, -36, 7.6, 7, 0, 0, TAU); g.clip(); ink(g, [[-8, -44], [8, -44], [8, -33.4], [4, -31.8], [0, -32.6], [-4, -31.8], [-8, -33.4]], "#6a3d1e", { sharp: true }); g.restore(); } // 背面：後腦大半是頭髮，只在頸後露一點皮膚
+    else ink(g, [[-7.4, -38], [-6, -43], [0, -44.4], [6, -43], [7.4, -38], [3, -40], [-3, -40]], "#6a3d1e");
     eyes(g, f, -35.6, 2.6, "#1d1a22", 0.9);
     if (!B) { stroke(g, [[f.ex - 3.8, -38.6], [f.ex - 1.6, -38]], 0.7, "#6a3d1e"); stroke(g, [[f.ex + 1.6, -38], [f.ex + 3.8, -38.6]], 0.7, "#6a3d1e"); }
   }
@@ -132,11 +137,12 @@ window.QForm = (() => {
   }
   function shadowForm(g, P, f) {
     const c = "#4a3e66", l = "#6a5c88", B = f.ex === null; /* 比戰場底色亮一階，黑外框裡才看得出形狀 */
-    for (const sg of [-1, 1]) stroke(g, [[sg * 6, -22], [sg * 12, -19], [sg * 10, -12], [sg * 15, -6]], 1.6, P.hero); // 飄帶（主色）
     ink(g, [[-8, -24], [8, -24], [10, -12], [7, -4], [4, -7], [2, -1], [-1, -6], [-4, -1], [-6, -7], [-10, -12]], c); // 煙影身體（下緣碎開，沒有腳）
+    // 飄帶（主色，審查第 3 輪：畫在身體上面）：從兩肩繞過胸口交叉、尾端往外飄；背面在背上交叉
+    for (const sg of [-1, 1]) { limb(g, [[sg * 6.6, -23.4], [-sg * 1, -17], [-sg * 7, -11], [-sg * 13, -8], [-sg * 16, -3]], 1.7, P.hero); }
     for (const sg of [-1, 1]) { limb(g, [[sg * 8, -22], [sg * 12, -15], [sg * 13, -10]], 2.6, c); for (const k of [-1, 0, 1]) ink(g, [[sg * 13 + k * 1.2 - 0.5, -10], [sg * 13.6 + k * 1.8, -4.6], [sg * 13 + k * 1.2 + 0.5, -10]], "#c8c0d8", { sharp: true, line: false }); } // 長爪
     ink(g, [[-8, -27], [-7, -36], [0, -40], [7, -36], [8, -27], [4, -24], [-4, -24]], c); // 兜帽狀的頭
-    if (!B) { ink(g, ellPts(f.ex, -30, 5.4, 4.6, 14), "#140f1c", { line: false }); eyes(g, f, -30.4, 2.4, light(P.hero, 0.55), 0.9, (gg, x, y, col, r) => { gg.fillStyle = col; gg.fillRect(x - 1.2 * r, y - 0.8 * r, 2.4 * r, 1.6 * r); }); } // 眼光（主色淡）
+    if (!B) { ink(g, ellPts(f.ex, -30, 5.4, 4.6, 14), "#140f1c", { line: false }); eyes(g, f, -30.4, 2.4, light(P.hero, 0.3), 0.9, (gg, x, y, col, r) => { gg.fillStyle = col; gg.fillRect(x - 1.4 * r, y - 1 * r, 2.8 * r, 2 * r); }); } // 眼光（主色淡）
     else stroke(g, [[0, -38], [0, -26]], 0.6, l);
   }
   function treant(g, P, f) {

diff --git a/docs/art/sample/q-summons-forms.html b/docs/art/sample/q-summons-forms.html
@@ -64,10 +64,12 @@ h2("⑤ 同一形態、不同主角：主色跟著換（藍＝戰士、綠＝弓
   for (const id of ["bear", "cat", "bird", "demon", "giant", "treant", "werewolf", "shadow"]) cell(r, F.FORMS[id].side ? 290 : 236, 96, 84, (x, cx, cy) => HC.forEach((h, i) => T(() => F.stamp(x, id, "south", (F.FORMS[id].side ? 40 : 42) + i * (F.FORMS[id].side ? 94 : 76), cy, K5, { hero: h }))), F.FORMS[id].zh, "藍・綠・紅");
   for (const id of ["avatar", "dragon"]) cell(r, id === "dragon" ? 480 : 236, 110, 98, (x, cx, cy) => ["fire", "ice", "lightning"].forEach((e, i) => T(() => F.stamp(x, id, "south", (id === "dragon" ? 76 : 42) + i * (id === "dragon" ? 150 : 76), cy, K5, { hero: "#2f5fae", element: e }))), F.FORMS[id].zh, "火・冰・雷"); }
 // ---------- 6. 戰場實際大小 ----------
-h2("⑥ 戰場實際大小（每格 52px）：上排形態、下排相近的召喚物", "上：狼人、貓、鳥、惡魔、暗影、巨人、樹人、元素化身、熊、龍；下：戰狼、戰狼、鷹隼、影魅、影魅、石像、藤蔓、火靈、主角、主角。");
-{ const TL = 52, kz = 0.9, r = row();
-  const cv = document.createElement("canvas"), cols = 10; cv.width = TL * cols; cv.height = TL * 2; const x = cv.getContext("2d");
+h2("⑥ 戰場實際大小（每格 52px）：上排形態、下排相近的召喚物", "上方灰帶是格子外（看得到超出格子的頭頂）；龍寬不超過 1.5 格（虛線）。上：狼人、貓、鳥、惡魔、暗影、巨人、樹人、元素化身、熊、龍；下：戰狼、戰狼、鷹隼、影魅、影魅、石像、藤蔓、火靈、主角、主角。");
+{ const TL = 52, kz = 0.9, TOPM = 40, r = row();
+  const cv = document.createElement("canvas"), cols = 10; cv.width = TL * cols; cv.height = TL * 2 + TOPM; const x = cv.getContext("2d"); /* 審查第 3 輪：上方留空，看得到超出格子的頭頂 */
+  x.fillStyle = "#3a3c44"; x.fillRect(0, 0, cv.width, TOPM); x.translate(0, TOPM);
   for (let i = 0; i < cols * 2; i++) { x.fillStyle = (i + Math.floor(i / cols)) % 2 ? "#8e8a80" : "#86827a"; x.fillRect((i % cols) * TL, Math.floor(i / cols) * TL, TL, TL); }
+  x.strokeStyle = "rgba(255,233,168,0.5)"; x.setLineDash([3, 3]); for (const c of [-0.75, 0.75]) { const X = 9.5 * TL + 3.6 + c * TL; x.beginPath(); x.moveTo(X, -TOPM); x.lineTo(X, TL); x.stroke(); } x.setLineDash([]); /* 虛線：以龍的中心左右各 0.75 格 = 1.5 格寬 */
   const TOP = ["werewolf", "cat", "bird", "demon", "shadow", "giant", "treant", "avatar", "bear", "dragon"], BOT = ["war_wolf", "war_wolf", "hawk", "shade", "shade", "golem", "vine", "fire_spirit", null, null];
   TOP.forEach((id, i) => T(() => F.stamp(x, id, "south", i * TL + TL / 2, TL * 0.78, kz, { hero: "#2f5fae" })));
   BOT.forEach((id, i) => T(() => (id ? S.stamp(x, id, "south", i * TL + TL / 2, TL * 1.78, kz) : Q.stamp(x, HERO, "front", i * TL + TL / 2, TL * 1.78, kz))));

diff --git a/docs/art/sample/q-gear-extra.html b/docs/art/sample/q-gear-extra.html
@@ -37,8 +37,17 @@ for (const id of G.ORDER.filter((i) => !ONLY || ONLY.split(",").includes(i))) {
   VIEWS.forEach(([v, w, t], j) => { const cx = 30 + CW * (j + 1) + CW / 2; shadow(cx); n++; try { G.stamp(x, BASE, [id], v, cx, FY - 4, K, w); } catch (e) { bad++; console.error(id, v, e); } lab(cx, t); });
   row.appendChild(cv); root.appendChild(row);
 }
+// 拿武器的小人（審查第 3 輪）：hero_fighter（劍、圓盾、披風）＋手部件＋鱗甲，四方向；手部件在劍柄、盾、背面披風下面
+if (!ONLY) {
+  const HF = PaperDoll.TEMPLATES.hero_fighter, wrap = document.createElement("div"); wrap.className = "row"; wrap.style.gridColumn = "1 / -1";
+  wrap.innerHTML = `<div class="t">拿武器測試：hero_fighter（劍、圓盾、披風）＋手部件＋鱗甲<small>四方向：正面、背面、朝東、朝西</small></div><div class="n">手部件只畫在看得到的手臂上：劍柄、盾、背面披風蓋在手部件上面；側面遠側手被身體擋住的部分不畫。</div>`;
+  const HIDS = ["gloves_long", "bracer_ring", "gauntlet_mail", "gloves_fingerless"], cv = document.createElement("canvas"); cv.width = 1250; cv.height = CH * 2 + 10; const x = cv.getContext("2d");
+  HIDS.forEach((id, r) => VIEWS.forEach(([v, w, t], j) => { const cx = 50 + (r % 2) * 625 + j * 140, fy = FY - 4 + Math.floor(r / 2) * (CH + 10); x.fillStyle = "rgba(0,0,0,0.28)"; x.beginPath(); x.ellipse(cx, fy + 4, 22, 4.5, 0, 0, 7); x.fill(); n++; try { G.stamp(x, HF, [id, "scale_mail"], v, cx, fy, K, w); } catch (e) { bad++; console.error(e); } if (j === 0) { x.fillStyle = "#ffe9a8"; x.font = "12px 'Noto Sans TC',sans-serif"; x.textAlign = "left"; x.fillText(G.DEFS[id].zh + "＋鱗甲", (r % 2) * 625 + 4, Math.floor(r / 2) * (CH + 10) + 14); } }));
+  wrap.appendChild(cv); root.appendChild(wrap);
+}
 // 自測：不認得的 id 跳過、不出錯；兩件疊在一起也能畫
 const tc = document.createElement("canvas").getContext("2d");
 for (const ids of [["nope"], ["scale_mail", "apron", "gloves_long", "cap_fur"], []]) for (const [v, w] of VIEWS) { n++; try { G.stamp(tc, BASE, ids, v, 60, 100, 1, w); } catch (e) { bad++; console.error(ids, e); } }
 document.getElementById("test").textContent = `　自測 ${n} 組（含不認得的 id、多件疊加），錯誤 ${bad}。`;
+document.body.dataset.h = document.body.scrollHeight;
 </script></body></html>

diff --git a/docs/art/sample/qSummon.js b/docs/art/sample/qSummon.js
@@ -150,8 +150,10 @@ window.QSummon = (() => {
     ink(ctx, [[8, -22], [11, -30], [17, -31], [22, -28], [28, -26], [28, -23], [21, -21], [14, -18]], P.base);
     dot(ctx, 28, -25, 0.9, 0.8, OUT); beye(ctx, 19, -27.4, "#ffd23a"); ink(ctx, [[23.2, -22.2], [24, -20.2], [24.8, -22.2]], "#f4ecd8", { sharp: true, line: false });
     ctx.restore();
-    ink(ctx, [[7.4, -24.6], [12.6, -27], [14.6, -19], [9.4, -17.4]], acc); // 戰狼的頸甲（元素色皮項圈）
-    dot(ctx, 11.4, -21.6, 0.9, 0.9, "#e8bb48");
+    // 戰狼的項圈（元素色）：一條順著脖子繞過去的帶子（上緣在頸背、下緣在喉下），後半圈暗一階，前面掛一個金環
+    limb(ctx, [[8.2, -26.8], [9.6, -22.4], [11.2, -18]], 1.9, dark(acc, 0.25));
+    limb(ctx, [[9.6, -27.4], [11.4, -22.6], [12.8, -18.4]], 1.9, acc);
+    ink(ctx, ellPts(13.4, -16.8, 1.2, 1.2, 10), "#e8bb48");
   }
   function hawk(ctx, s) {
     const c = "#8a6a40", d = "#5e4628", acc = KW[s.element] ?? KW.mark;
@@ -224,7 +226,9 @@ window.QSummon = (() => {
     const s = resolve(spec), fc = FACE[facing] ? facing : "south", sz = s.k;
     ctx.save(); ctx.translate(cx, cy);
     const ringOn = opts.ring !== false && !(s.body === "construct" && s.variant === "wall");
-    if (ringOn) { ctx.save(); ctx.scale(k * Math.max(1, sz * 0.9), k * Math.max(1, sz * 0.9)); summonRing(ctx, 13); if (s.trait === "aura") aura(ctx, 17); ctx.restore(); }
+    // 陣營環比身體寬（審查第 3 輪：石像、戰狼的環被身體蓋住看不到）：rx＝身體半寬＋3，中心跟著身體（戰狼頭在前，環往前移）
+    const RING = { golem: [22, 0], wolf: [25, 3] }, [rr0, rdx] = RING[s.variant] ?? [13, 0];
+    if (ringOn) { ctx.save(); ctx.scale(k, k); ctx.translate(rdx * sz * (s.body === "beast" && (fc === "west" || fc === "north") ? -1 : 1), 0); ctx.scale(Math.max(1, rr0 === 13 ? sz * 0.9 : sz), Math.max(1, rr0 === 13 ? sz * 0.9 : sz)); summonRing(ctx, rr0); if (s.trait === "aura") aura(ctx, 17); ctx.restore(); }
     if (s.body === "humanoid") { ctx.restore(); const [v, w] = VIEW[fc]; doll(ctx, HUMAN[s.variant] ?? HUMAN.skeleton, opts.summoner, v, w, cx, cy, k * sz); return; }
     ctx.scale(k * sz, k * sz);
     const flying = s.trait === "flying", hover = s.body === "spirit";
